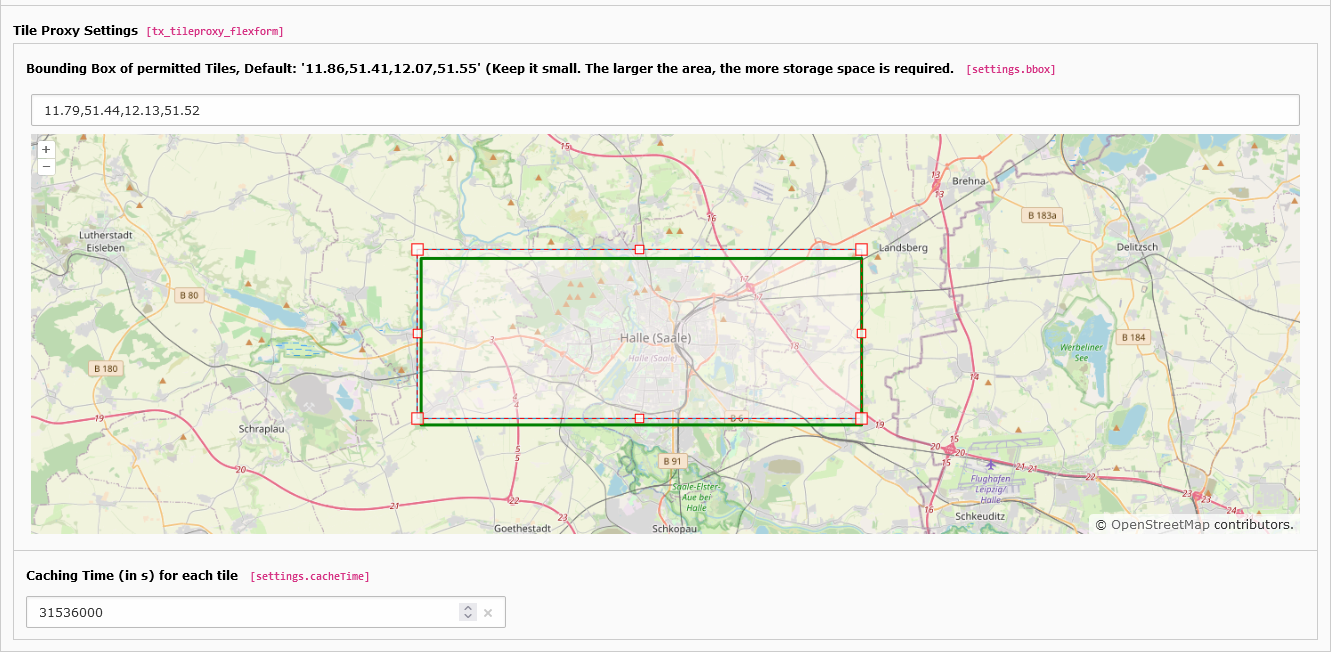
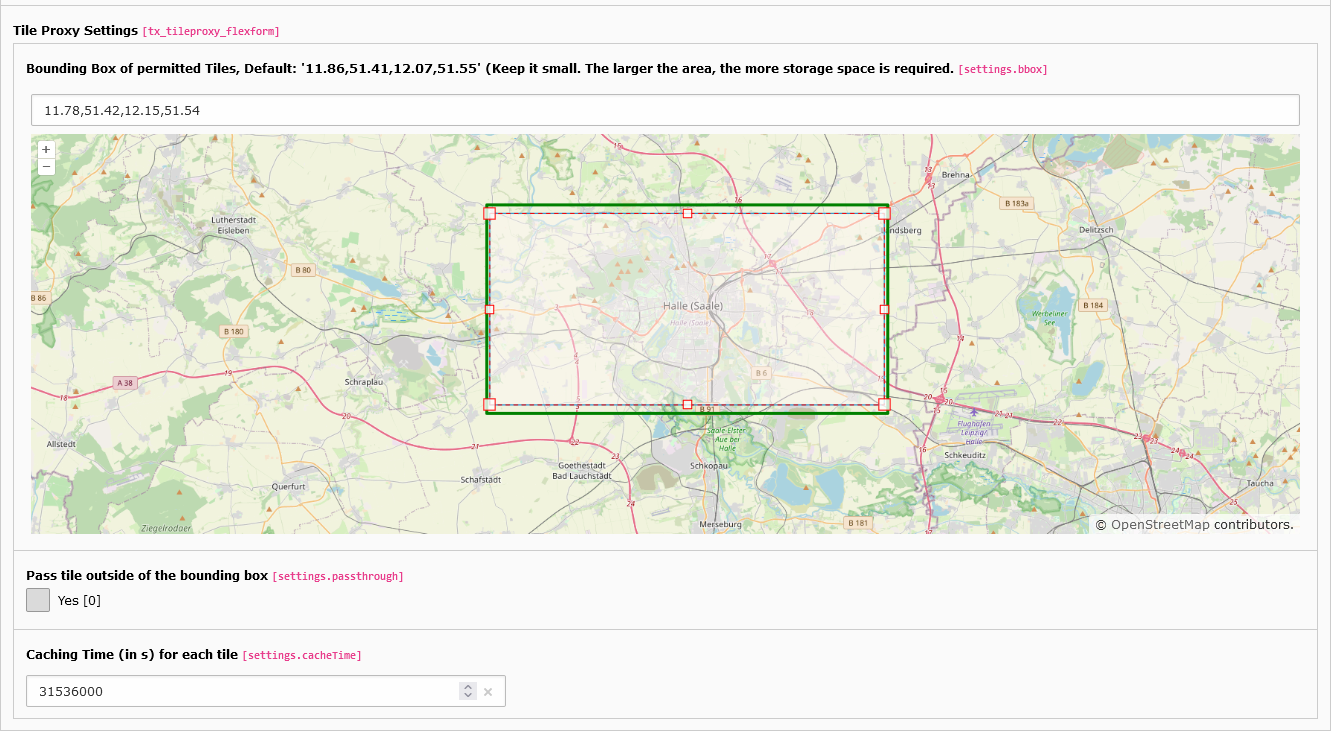
Passthrough option

diff --git a/Classes/Controller/TileProxyController.php b/Classes/Controller/TileProxyController.php
@@ -56,13 +56,18 @@ class TileProxyController extends ProxyController
     return isset($params['provider'], $params['s'], $params['x'], $params['y'], $params['z']);
   }
 
-  protected function createResponse(string $filename, int $cacheHeaderTime): ResponseInterface
+  protected function createResponseByFilename(string $filename, int $cacheHeaderTime): ResponseInterface
   {
     $imgData = file_get_contents($filename);
+    return $this->createResponse($imgData, $cacheHeaderTime);
+  }
+
+  protected function createResponse(string|false $content, int $cacheHeaderTime): ResponseInterface
+  {
     return (new Response())
       ->withHeader('content-type', 'image/png')
       ->withHeader('cache-control', "public, max-age=$cacheHeaderTime, s-maxage=$cacheHeaderTime")
-      ->withBody($this->streamFactory->createStream($imgData));
+      ->withBody($this->streamFactory->createStream($content));
   }
 
   public function buildUrlByType($provider, $s, $z, $x, $y): string
@@ -87,6 +92,9 @@ class TileProxyController extends ProxyController
     $cacheTimeStr =  array_key_exists('cacheTime', $flexSettings) ? $flexSettings['cacheTime'] : '31536000';
     $cacheTime = intval($flexSettings['cacheTime'] ??  $cacheTimeStr);
 
+    $passthroughStr =  array_key_exists('passthrough', $flexSettings) ? $flexSettings['passthrough'] : 0;
+    $passthrough = intval($flexSettings['passthrough'] ??  $passthroughStr);
+
 
     $s = $parms['s'];
     $x = intval($parms['x']);
@@ -102,14 +110,20 @@ class TileProxyController extends ProxyController
       return $this->createErrorResponse(Constants::ERROR_INVALID_PROVIDER);
     }
 
+    $fullUrl = $this->buildUrlByType($provider, $s, $z, $x, $y);
+    if (empty($fullUrl)) { // can't be happen
+      return $this->createErrorResponse(Constants::ERROR_INVALID_PROVIDER);
+    }
+
     $cacheTileFile = "";
     if (!$this->isInBoundingBox($bbox, $z, $x, $y)) {
-      return $this->createResponse($this->emptyTilePath, $cacheTime);
-    } else {
-      $fullUrl = $this->buildUrlByType($provider, $s, $z, $x, $y);
-      if (empty($fullUrl)) { // can't be happen
-        return $this->createErrorResponse(Constants::ERROR_INVALID_PROVIDER);
+      if ($passthrough > 0) {
+
+        return $this->passThrough($fullUrl,$cacheTime);
       }
+      return $this->createResponseByFilename($this->emptyTilePath, $cacheTime);
+    } else {
+
       $cacheTileFile = $this->cacheDir . "/$provider/$z/$x/$y.png";
 
       $isChachValid = true;
@@ -126,15 +140,18 @@ class TileProxyController extends ProxyController
       }
     }
 
-    return $this->createResponse($cacheTileFile, $cacheTime);
+    return $this->createResponseByFilename($cacheTileFile, $cacheTime);
   }
 
-  private function loadTileAndCacheIt($tileURL, $cacheTileFile)
-  {
 
-    if (!file_exists(dirname($cacheTileFile))) {
-      @mkdir(dirname($cacheTileFile), 0777, true);
-    }
+  private function passThrough($fullUrl, $cacheTileFile): ResponseInterface
+  {
+    return $this->createResponse($this->loadTile($fullUrl),$cacheTileFile);
+  }
+
+
+  private function loadTile($tileURL): string
+  {
 
     $ch = curl_init($tileURL);
     curl_setopt($ch, CURLOPT_RETURNTRANSFER, true);
@@ -147,12 +164,25 @@ class TileProxyController extends ProxyController
     $data = curl_exec($ch);
     $header = curl_getinfo($ch);
     if ($header['http_code'] == "200") {
-      file_put_contents($cacheTileFile, $data);
       curl_close($ch);
-      return true;
+      return $data;
     } else {
       curl_close($ch);
       return false;
     }
+  }
+
+  private function loadTileAndCacheIt($tileURL, $cacheTileFile)
+  {
+    if (!file_exists(dirname($cacheTileFile))) {
+      @mkdir(dirname($cacheTileFile), 0777, true);
+    }
+    $data = $this->loadTile($tileURL);
+    if ($data) {
+      file_put_contents($cacheTileFile, $data);
+      return true;
+    }
+
+    return false;
   }
 }

diff --git a/Documentation/Configuration/Index.rst b/Documentation/Configuration/Index.rst
@@ -42,6 +42,12 @@ The bounding box rectangle (green) may differ from the moving rectangle because 
     If your map uses different aspect ratios depending on the resolution, the deliverable area should be chosen larger than defined in the JavaScript.
     With Leaflet, for example, it can happen that an area larger the maxBounds is still displayed.
 
+Pass tile outside of the bounding box
+~~~~~~~~~~
+
+If this option is set, all tiles outside the bounding box are passed through directly.
+If this option is switched off, no queries outside the bounding box will be forwarded.
+
 Caching Time (in s) for each tile
 ~~~~~~~~~~
 
